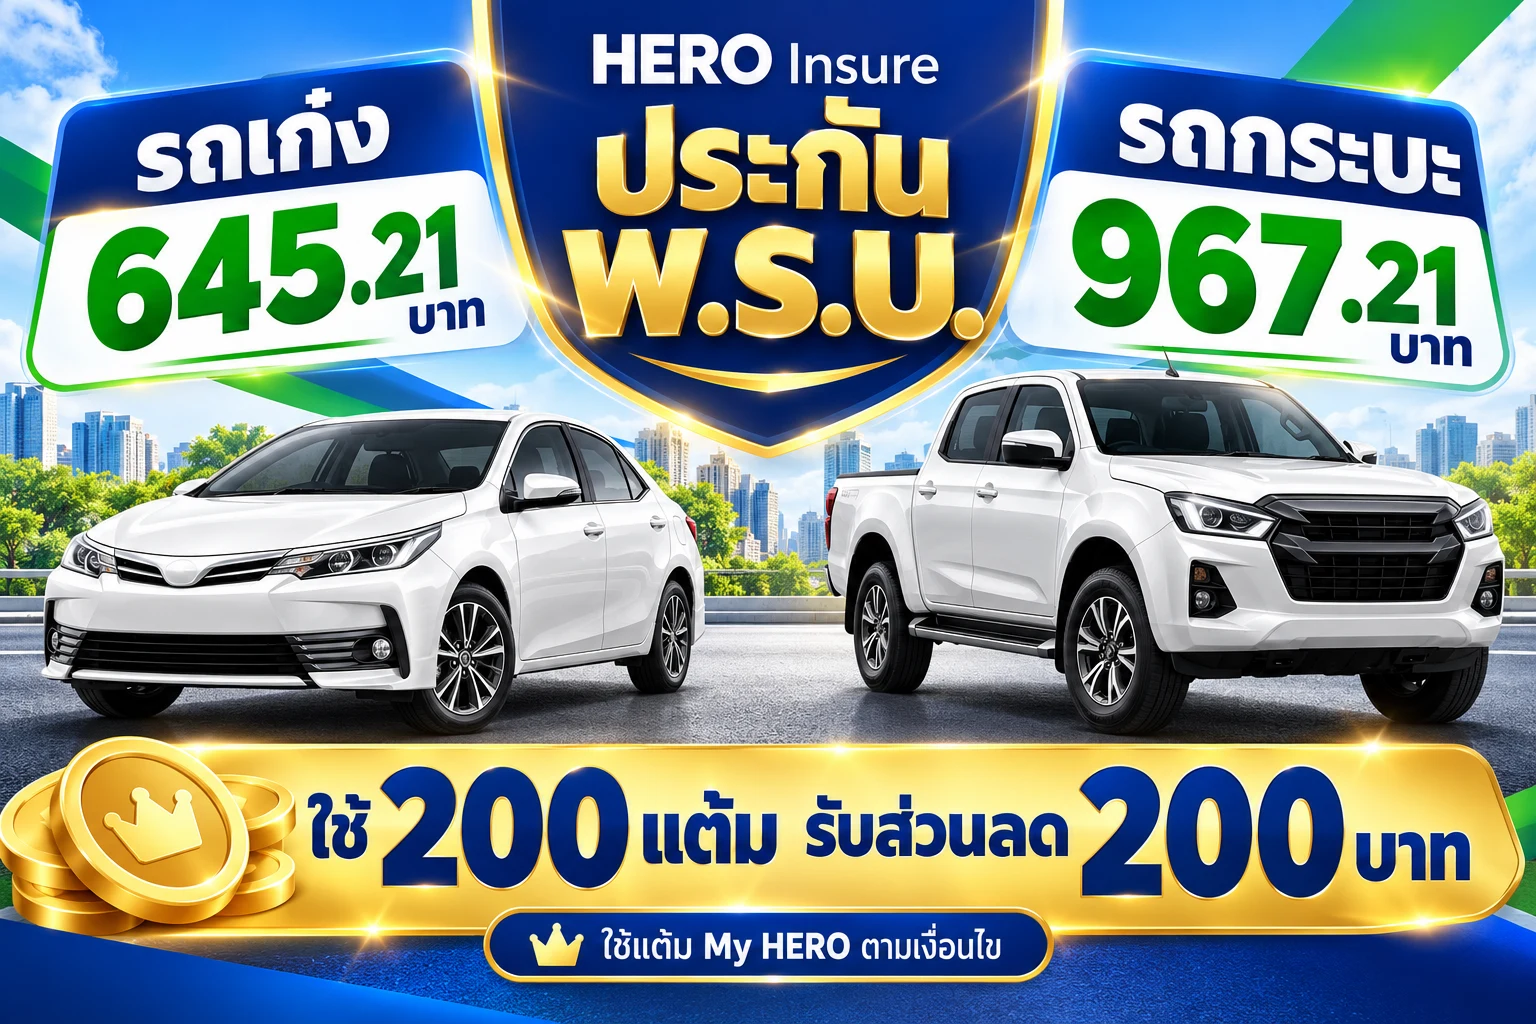
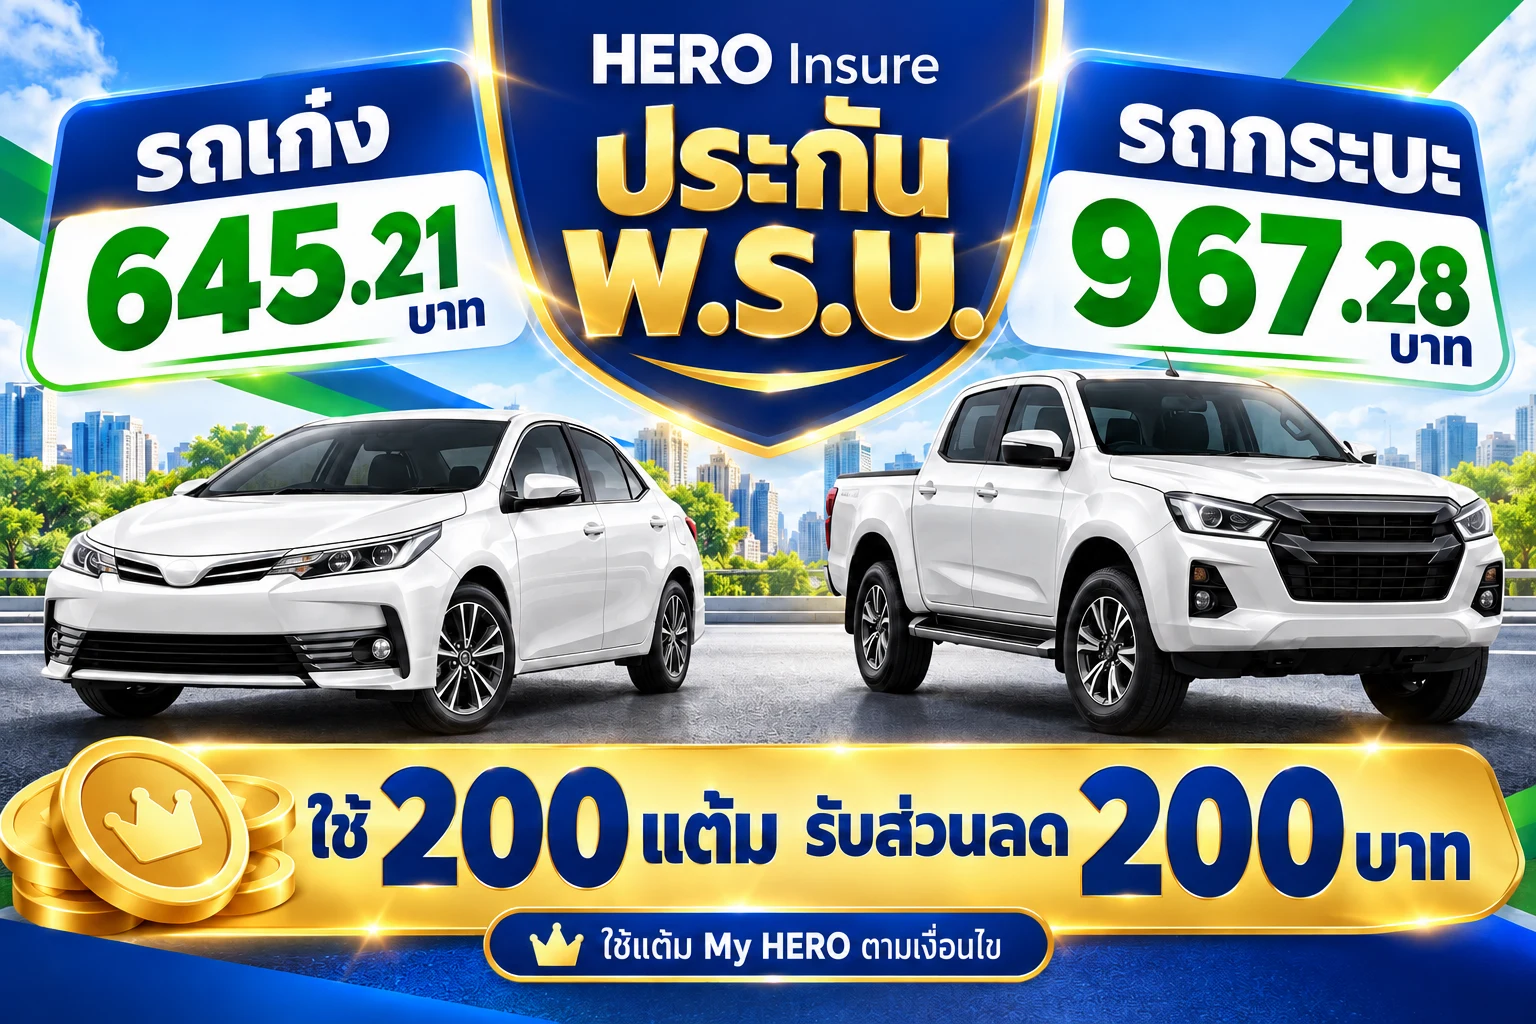
Correct pickup PRB campaign artwork and labels to 967.28 baht

diff --git a/the-rice/index.html b/the-rice/index.html
@@ -875,7 +875,7 @@
           </div>
         </div>
       </section>
-<section class="section event-shopping" aria-label="ใช้สิทธิ์และเลือกซื้อสินค้า"><div class="wrap"><h2>ใช้แต้มรับส่วนลด กับ My HERO<span class="en">Shop with your My HERO benefits</span></h2><div class="event-shop-grid"><a class="event-shop-card" href="https://heroinsure.successconnection.co.th/pages/motor-insurance.html?source=the-rice-event"><img src="/the-rice/assets/hero-insure-prb-th-v2.webp" width="1536" height="1024" alt="HERO Insure พ.ร.บ. รถเก๋งและรถกระบะ ใช้ 200 แต้มรับส่วนลด 200 บาทตามเงื่อนไข" loading="lazy"><div class="event-shop-caption"><strong>สั่งซื้อ ประกัน พรบ.</strong><span>Click to buy PRB Insurance →</span><small>ไป HERO Insure โดยตรง · รถเก๋ง / รถกระบะ</small></div></a><a class="event-shop-card shop-green" href="https://my-hero.pages.dev/points-redemption?source=the-rice-event"><img src="/the-rice/assets/myhero-shop-redeem-v1.webp" width="1536" height="1024" alt="ไปช็อปกันเลย ใช้แต้ม เป็นส่วนลด เลือกสินค้าใน My HERO" loading="lazy"><div class="event-shop-caption"><strong>ไปช็อป กันเลย !</strong><span>ใช้แต้ม เป็นส่วนลด →</span><small>ดูสินค้าและสิทธิ์ใน My HERO · ข้อเสนอตามเงื่อนไขแต่ละสินค้า</small></div></a></div></div></section>
+<section class="section event-shopping" aria-label="ใช้สิทธิ์และเลือกซื้อสินค้า"><div class="wrap"><h2>ใช้แต้มรับส่วนลด กับ My HERO<span class="en">Shop with your My HERO benefits</span></h2><div class="event-shop-grid"><a class="event-shop-card" href="https://heroinsure.successconnection.co.th/pages/motor-insurance.html?source=the-rice-event"><img src="/the-rice/assets/hero-insure-prb-th-v3.webp" width="1536" height="1024" alt="HERO Insure พ.ร.บ. รถเก๋งและรถกระบะ ใช้ 200 แต้มรับส่วนลด 200 บาทตามเงื่อนไข" loading="lazy"><div class="event-shop-caption"><strong>สั่งซื้อ ประกัน พรบ.</strong><span>Click to buy PRB Insurance →</span><small>ไป HERO Insure โดยตรง · รถเก๋ง / รถกระบะ</small></div></a><a class="event-shop-card shop-green" href="https://my-hero.pages.dev/points-redemption?source=the-rice-event"><img src="/the-rice/assets/myhero-shop-redeem-v1.webp" width="1536" height="1024" alt="ไปช็อปกันเลย ใช้แต้ม เป็นส่วนลด เลือกสินค้าใน My HERO" loading="lazy"><div class="event-shop-caption"><strong>ไปช็อป กันเลย !</strong><span>ใช้แต้ม เป็นส่วนลด →</span><small>ดูสินค้าและสิทธิ์ใน My HERO · ข้อเสนอตามเงื่อนไขแต่ละสินค้า</small></div></a></div></div></section>
       <section id="venue" class="hero">
         <div class="wrap heroGrid">
           <div class="photoCard">
@@ -1180,7 +1180,7 @@
               <div class="benefitFine">สิทธิ์ต้อนรับ 200 HERO Points รับได้ 1 ครั้งต่อ HERO ID • Welcome points are awarded once per HERO ID.</div>
             </div>
           </section>
-          <aside class="benefitVisual benefitVisual-ad"><a class="benefit-prb-ad" href="https://heroinsure.successconnection.co.th/pages/motor-insurance.html?source=the-rice-event"><img src="/the-rice/assets/hero-insure-prb-th-v2.webp" width="1536" height="864" alt="พ.ร.บ. รถเก๋ง 645.21 บาท รถกระบะ 967.21 บาท ใช้ 200 แต้มรับส่วนลด 200 บาทตามเงื่อนไข"><span>ดู พ.ร.บ. รถเก๋ง / รถกระบะ ที่ HERO Insure →</span></a></aside>
+          <aside class="benefitVisual benefitVisual-ad"><a class="benefit-prb-ad" href="https://heroinsure.successconnection.co.th/pages/motor-insurance.html?source=the-rice-event"><img src="/the-rice/assets/hero-insure-prb-th-v3.webp" width="1536" height="864" alt="พ.ร.บ. รถเก๋ง 645.21 บาท รถกระบะ 967.28 บาท ใช้ 200 แต้มรับส่วนลด 200 บาทตามเงื่อนไข"><span>ดู พ.ร.บ. รถเก๋ง / รถกระบะ ที่ HERO Insure →</span></a></aside>
         </div>
       </section>
     </div>

diff --git a/the-rice/benefit.html b/the-rice/benefit.html
@@ -250,7 +250,7 @@
           <div class="note">สิทธิ์ต้อนรับ 200 HERO Points รับได้ 1 ครั้งต่อ HERO ID • Points are awarded once per HERO ID.</div>
         </section>
 
-        <aside class="visual"><a class="benefit-prb-ad" href="https://heroinsure.successconnection.co.th/pages/motor-insurance.html?source=the-rice-event"><img src="/the-rice/assets/hero-insure-prb-th-v2.webp" width="1536" height="1024" alt="พ.ร.บ. รถเก๋ง 645.21 บาท รถกระบะ 967.21 บาท ใช้ 200 แต้มรับส่วนลด 200 บาทตามเงื่อนไข"><span>ดู พ.ร.บ. รถเก๋ง / รถกระบะ ที่ HERO Insure →</span></a></aside>
+        <aside class="visual"><a class="benefit-prb-ad" href="https://heroinsure.successconnection.co.th/pages/motor-insurance.html?source=the-rice-event"><img src="/the-rice/assets/hero-insure-prb-th-v3.webp" width="1536" height="1024" alt="พ.ร.บ. รถเก๋ง 645.21 บาท รถกระบะ 967.28 บาท ใช้ 200 แต้มรับส่วนลด 200 บาทตามเงื่อนไข"><span>ดู พ.ร.บ. รถเก๋ง / รถกระบะ ที่ HERO Insure →</span></a></aside>
       </div>
 
       <footer class="bottom">The Rice Event × HERO Event × HERO Insure</footer>
